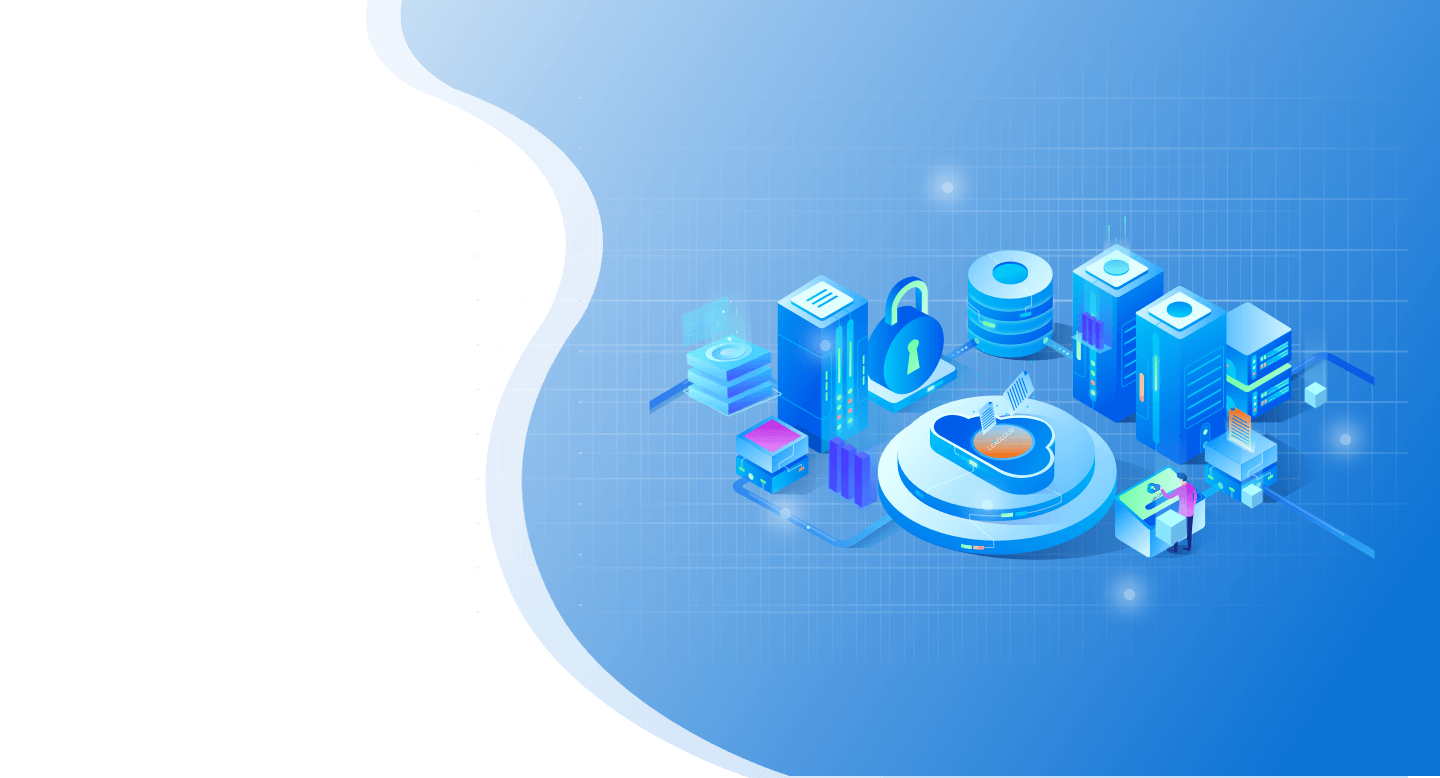
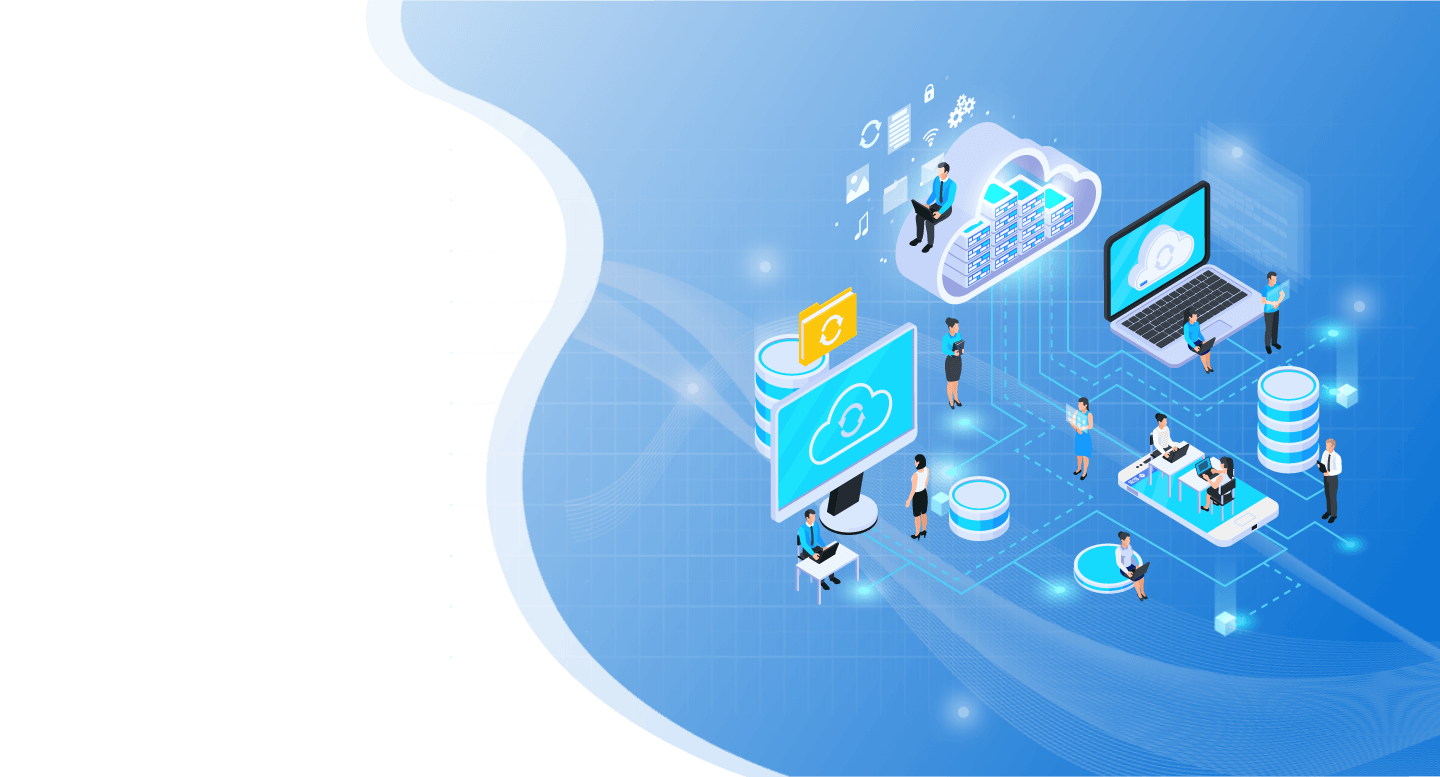
Adjust for uiux

Changed region(s): [[0.4375, 0.1236, 1.0, 1.0], [0.8438, 0.7413, 0.875, 0.834], [0.9062, 0.7413, 0.9375, 0.7722]]

diff --git a/assets/css/style.css b/assets/css/style.css
@@ -325,7 +325,7 @@ a:hover {
   --------------------------------------------------------------*/
   #banner {
     background-color: #dfefff;
-    background-image: url('../../assets/img/Banner4.png');
+    background-image: url('../../assets/img/Banner.png');
     padding: 0px 0px;
     background-size: 100% auto;
     background-repeat: no-repeat;
@@ -352,7 +352,7 @@ a:hover {
 
   #banner .bannerContentTitle {
     margin-top: 10px;
-    font-size: 35px;
+    font-size: 37px;
     font-weight: bold;
     background: -webkit-linear-gradient(#696969, #b4ac9c 50% , #384456 55%, #696969 70%);
     -webkit-background-clip: text;
@@ -363,9 +363,10 @@ a:hover {
   #banner .bannerContentSubTitle {
     color: #1976D2;
     margin-top: 10px;
-    font-size: 22px;
+    font-size: 24px;
     font-weight: bold;
     width: 95%;
+    margin-left: 3px;
   }
 
   #banner .bannerContentText {
@@ -410,6 +411,7 @@ a:hover {
     #banner .bannerContentSubTitle {
       font-size: 2.2vw;
       margin-top: 5px;
+      margin-left: 0px;
     }
   
     #banner .bannerContentText {
@@ -1063,10 +1065,11 @@ a:hover {
     margin-top: 60px;
     margin-bottom: -20px;
     color: #000;
+    font-weight: bold;
   }
 
   .pricing .helpButton:hover {
-    color: #1976D2;
+    color: #ffbf00;
   }
 
   .pricing .box {
@@ -1081,6 +1084,7 @@ a:hover {
     margin-left: -10px;
     margin-right: -10px;
     height: 100%;
+    width: 300px;
   }
 
   .pricing .onHover {
@@ -1090,7 +1094,7 @@ a:hover {
   }
 
   .pricing p {
-      /* color: #66757f; */
+      color: #66757f;
       margin-bottom: 40px;
   }
   
@@ -1217,6 +1221,10 @@ a:hover {
 
     .pricing ul li {
       width: 50%;
+    }
+
+    .pricing .box {
+      width: auto;
     }
   }
   

diff --git a/index.html b/index.html
@@ -410,7 +410,7 @@
               <hr/>
             </div>
             <p>
-              LeaCloudCDN在中國大陸多個省份城市、台灣、日本、南韓、香港、菲律賓、越南、泰國、新加坡、印尼、馬來西亞、印度、歐洲、北美等均有專屬節點及專線，讓您的網站及各項服務暢行無阻。
+              LeaCloudCDN在中國大陸多個省份城市、台灣、日本、南韓、香港、菲律賓、越南、泰國、新加坡、印尼、馬來西亞、印度、歐洲、北美等<br>均有專屬節點及專線，讓您的網站及各項服務暢行無阻。
             </p>
           </div>
         </div>

diff --git a/assets/js/globeDots.js b/assets/js/globeDots.js
@@ -33,7 +33,7 @@ const props = {
   startingCountry: 'taiwan', // The key of the country to rotate the camera to during the introduction animation (and which country to start the cycle at)
   colours: {
     // Cache the colours
-    globeDots: 'rgb(61, 137, 164)', // No need to use the Three constructor as this value is used for the HTML canvas drawing 'fillStyle' property
+    globeDots: 'rgb(153, 161, 176)', // No need to use the Three constructor as this value is used for the HTML canvas drawing 'fillStyle' property
     lines: new THREE.Color('#18FFFF'),
     lineDots: new THREE.Color('#18FFFF') },
 
